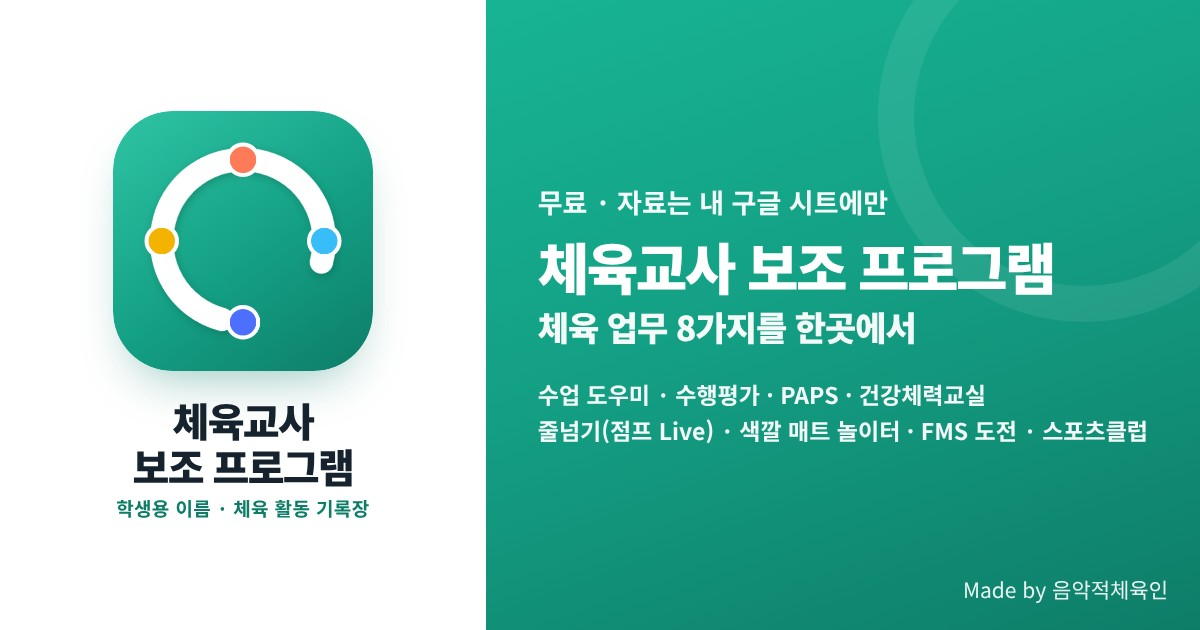
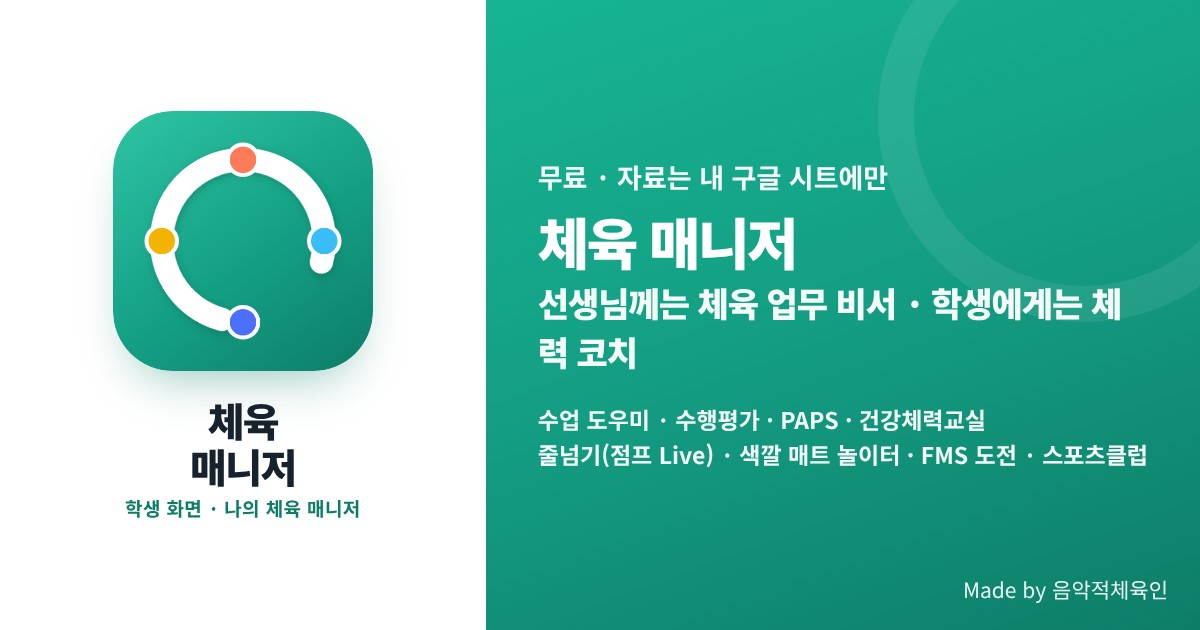
이름을 '체육 매니저'(학생 화면 '나의 체육 매니저')로 — 제목·manifest·공유 썸네일
Claude-Session: https://claude.ai/code/session_015cGnBZtKJMpHHGNaDpMrPQ

Changed region(s): [[0.4317, 0.2413, 0.9558, 0.754], [0.0925, 0.6333, 0.3083, 0.8444]]

diff --git a/app.html b/app.html
@@ -4,11 +4,11 @@
 <meta charset="utf-8">
 <meta name="description" content="체육 업무 8가지를 한곳에서 — 수업 도우미 · 수행평가 · PAPS · 건강체력교실 · 줄넘기(점프 Live) · 색깔 매트 놀이터 · FMS 도전 · 스포츠클럽. 무료, 자료는 내 구글 시트에만.">
 <meta property="og:type" content="website">
-<meta property="og:site_name" content="체육교사 보조 프로그램">
-<meta property="og:title" content="체육교사 보조 프로그램 · 체육 활동 기록장">
+<meta property="og:site_name" content="체육 매니저">
+<meta property="og:title" content="체육 매니저 — 선생님께는 체육 업무 비서, 학생에게는 체력 코치">
 <meta property="og:description" content="체육 업무 8가지를 한곳에서 — 수업 도우미 · 수행평가 · PAPS · 건강체력교실 · 줄넘기 · 색깔 매트 · FMS · 스포츠클럽. 무료, 자료는 내 구글 시트에만.">
 <meta property="og:url" content="https://musicalpe.github.io/pe-app/">
-<meta property="og:image" content="https://musicalpe.github.io/pe-app/img/og-app.jpg?v=1">
+<meta property="og:image" content="https://musicalpe.github.io/pe-app/img/og-app.jpg?v=2">
 <meta property="og:image:width" content="1200">
 <meta property="og:image:height" content="630">
 <meta name="twitter:card" content="summary_large_image">
@@ -20,7 +20,7 @@
 <meta name="mobile-web-app-capable" content="yes">
 <meta name="apple-mobile-web-app-title" content="체육 기록장">
 <script>(function(){try{if(/[?&]page=teacher/.test(location.search))document.getElementById("webManifest").href="manifest-teacher.webmanifest";}catch(e){}})();</script>
-<meta name="pe-web" content="3.4.0 · 2026-11-04 11:02 · server api 1">
+<meta name="pe-web" content="3.4.0 · 2026-11-04 11:09 · server api 1">
 <meta name="viewport" content="width=device-width, initial-scale=1">
 <link rel="stylesheet" href="https://cdn.jsdelivr.net/npm/@tabler/icons-webfont@3.19.0/dist/tabler-icons.min.css">
 <style>
@@ -415,7 +415,7 @@ button.say i{font-size:18px;}
 (function () {
   'use strict';
   var WEB = window.WEB = {
-    version: '3.4.0', build: '202611041102', needs: 1, built: '2026-11-04 11:02', history: [{"version":"3.4.0","date":"2026-11-03","notes":"줄넘기가 점퍼스(줄넘기 기록 관리) 2.8 과 같아졌어요 — 점프 Live (Lite) 선생님 화면(줄넘기 → 점프 Live), 학생 방 \"각자 기기로 대결\", \"한 대로 둘이\"(2인 판정기), 스마트 줄넘기로 뛰기(뛴 시간 함께), 하루 최고·연속 넘기 최고 갱신 축하, 상장 테두리 금박·은박·A4 세로. 방·연속·대결은 라이브러리 53 부터."},{"version":"3.3.7","date":"2026-10-11","notes":"줄넘기 기록 관리 2.4 와 같은 줄넘기 — 우리 반 줄넘기 여행이 국토 대장정(출발 도시 고르기·새 그림)으로, \"내 줄넘기로 뛰기\"(JUMPITNOW 블루투스), Jump Earth!·Jumpers! 이름. 출발 도시·스마트 줄넘기 설정은 라이브러리 53 부터. 구글 시트가 잠깐 오류로 답하면 1.5초 뒤 한 번 더 자동으로 요청해요."},{"version":"3.3.6","date":"2026-10-07","notes":"모아 부르기 — 같은 순간에 나가는 요청들(로그인 직후 모듈별 자료 등)을 한 요청으로 묶어 보내요. 라이브러리 52 부터 동작하고, 옛 라이브러리에서는 지금처럼 따로 보냅니다. 설정 → 최근 요청 속도에 \"묶음 N\" 으로 보여요."},{"version":"3.3.5","date":"2026-10-07","notes":"휴대폰 가로 화면에서 로그인 창이 위아래로 잘려 숫자판 끝까지 못 내리던 것을 고쳤어요(위·아래 모두 스크롤). 가로 화면에서는 숫자판도 조금 낮게. (화면만)"},{"version":"3.3.4","date":"2026-10-06","notes":"앱 아이콘을 민트 바탕 + 고리 모양으로(줄넘기 기록 관리와 같은 모양, 색만 다름). 이미 홈 화면에 추가한 기기는 지우고 다시 추가해야 새 아이콘이 보여요."},{"version":"3.3.3","date":"2026-10-06","notes":"줄넘기 \"학급 공동 목표\" 칸을 뺐어요(학급 현황·학생 화면·설정) — 우리 반 줄넘기 여행과 같은 숫자라 겹쳤어요. 설정값은 시트에 남아 있지만 쓰지 않아요. (화면만)"},{"version":"3.3.2","date":"2026-10-06","notes":"줄넘기 학급 현황: 여행·급수 패널 제목이 보는 범위를 따라가요 — 한 반이면 \"우리 반\", 한 학년 여러 반이면 \"우리 N학년\", 전체면 \"우리 학교\". (화면만)"},{"version":"3.3.1","date":"2026-10-05","notes":"급수 인증표: 학생 \"모두\" 체크를 이름 바로 옆으로 — 체크하면 그 줄 전부, 머리줄 \"모두\"는 반 전체. 항목을 하나씩 바꾸면 \"모두\" 칸이 따라와요. (화면만, 라이브러리 그대로)"},{"version":"3.3.0","date":"2026-10-05","notes":"3.3 — 학교 프로그램 v3.3.0(라이브러리 51)과 번호를 맞췄어요. 설정 → 모듈에 ▲▼(사이드바 모듈 순서, 저장하면 바로 반영 · 라이브러리 51 필요). 줄넘기: 급수 인증·인증서·상장·우리 반 여행 화면(라이브러리 50), 학급 현황 학생별 누적 표에 반 고르기와 오른쪽 열 높이에 맞춘 스크롤, 급수 인증표 머리줄 체크 정렬·\"모두\" 단추 토글, 기록 확인 \"모두 확인\", 줄넘기왕 공동 1위."},{"version":"3.2.14","date":"2026-10-04","notes":"전국 현황판 참여 중에는 \"학생 입력 자동 확인\"을 켤 수 없어요 — 선생님이 확인한 기록만 현황판에. (학교 프로그램 v3.1.8 · 라이브러리 49)"},{"version":"3.2.13","date":"2026-10-04","notes":"\"전국 현황판 참여\" 칸이 줄넘기 모든 화면에 보이던 것 — 줄넘기 설정 화면에만. 학교 프로그램이 아직 옛 판이면 칸을 숨겨요."},{"version":"3.2.12","date":"2026-10-04","notes":"줄넘기 설정에 \"전국 현황판 참여\" 칸, 참여 중이면 학생 줄넘기 화면에 \"전국 현황판 보기\" 링크. (학교 프로그램 v3.1.7 · 라이브러리 47)"},{"version":"3.2.11","date":"2026-10-04","notes":"색깔 매트 놀이터 리듬 스텝 새 모습 — 블록이 비트세이버처럼 앞으로 다가와요(매트 모양 그대로). \"위에서 떨어지기(네 줄)\"도 고를 수 있어요."},{"version":"3.2.10","date":"2026-10-04","notes":"학교가 \"새 배포\"로 주소가 바뀌면 이 기기도 새 주소로 저절로 옮겨 가요. 적용 순서 안내에 \"새 배포는 누르지 마세요\", 주소가 바뀌면 선생님 홈에 \"QR 다시 인쇄\" 알림. (학교 프로그램 v3.1.5 · 라이브러리 45)"},{"version":"3.2.9","date":"2026-10-04","notes":"(만든 선생님 학교 전용) 설정 왼쪽 AI 키 아래에 \"우리 프로그램을 쓰는 학교\" 칸 — 사용 학교 현황을 프로그램 안에서 바로 봐요. (학교 프로그램 v3.1.4 · 라이브러리 44)"},{"version":"3.2.7","date":"2026-10-03","notes":"설정 → 업데이트 아래 \"사용 학교 알림\" — 익명(기본) · 학교 이름도 · 알리지 않기 중에서 고를 수 있어요. 학생 정보는 보내지 않아요. (학교 프로그램 v3.1.3 · 라이브러리 43)"},{"version":"3.2.6","date":"2026-10-03","notes":"AI 키를 설정 한 곳에서(설정 왼쪽 아래 · 시험해 보기) — 줄넘기 응원 문구·매트 퀴즈·세특 AI가 모두 이 키를 쓰고, 앞으로 생길 AI 기능도 여기 키를 써요. (학교 프로그램 v3.1.1 · 라이브러리 41 필요)"},{"version":"3.2.4","date":"2026-10-03","notes":"세특 초안에 \"AI로 다듬기\"(Gemini 키) — 학생마다 기록 사실로 서로 다른 문장, 한 명씩 또는 고른 학생·반 전체를 차례로. 학생을 골라 글 지우기. (학교 프로그램 v3.1.1 · 라이브러리 41 필요)"},{"version":"3.2.3","date":"2026-10-03","notes":"선생님이 로그인하면 새 소식 창 — 새 화면이 바뀌면 \"이번에 바뀐 것\"을 한 번 보여 주고, 학교 프로그램(라이브러리) 새 버전이 나와 있으면 적용 방법도 함께 알려 줘요."},{"version":"3.2.2","date":"2026-10-01","notes":"홈 화면에 앱으로 추가 — 태블릿·휴대폰에서 아이콘 하나로 주소창 없이 앱처럼 열려요(로그인 화면 아래 \"홈 화면에 앱으로 추가\", 아이폰은 공유 → 홈 화면에 추가). 앱 파일을 기기에 기억해 두어 여는 것도 빨라져요.\n세특 초안(홈)과 새 학년도 시작(설정) 메뉴 — 학교 프로그램을 v3.1.0(라이브러리 40)으로 올리면 써요."},{"version":"3.2.1","date":"2026-10-01","notes":"색깔 매트 놀이터 화면을 밝은 카드 톤으로(판정기와 같은 톤) — 게임 설정·끝 화면이 밝아지고 시작 버튼은 코랄색. 게임 중 화면은 매트 색이 잘 보이도록 검은 바탕 그대로."},{"version":"3.2.0","date":"2026-10-01","notes":"휴대폰·태블릿 위 메뉴를 누르면 아래 하위 메뉴만 바뀌던 것 — 그 메뉴의 첫 화면도 바로 열려요."},{"version":"3.1.9","date":"2026-10-01","notes":"카메라 판정기 새 디자인(v0.7.3) — 밝은 카드 화면, 10회마다 축하, 전체 화면 버튼. 앱으로 돌아가기 줄도 밝게."},{"version":"3.1.8","date":"2026-10-01","notes":"초기화 화면에 한꺼번에 고르기 — \"모든 기록 선택(명단은 남김)\" · \"명단까지 전부 선택\" · \"선택 해제\", 모듈마다 \"이 모듈 모두\", 고른 개수 표시."},{"version":"3.1.7","date":"2026-10-01","notes":"로그인 직후 모듈 여러 개가 한꺼번에 자료를 부르며 모두 느려지던 것 — 3개씩 차례로 보내고, 선생님·학생이 누른 화면의 자료는 줄 맨 앞으로 먼저 불러와요."},{"version":"3.1.5","date":"2026-09-30","notes":"새 판이 나온 뒤 처음 열 때 화면을 두 번 불러오던 것을 한 번으로 — 새 판 확인을 먼저 하고 바로 새 판을 받아요.\n설정 → 업데이트 칸 아래에 \"최근 요청 속도\" (느릴 때 어디가 느린지 볼 수 있어요)."},{"version":"3.1.4","date":"2026-09-30","notes":"색깔 매트 놀이터: 게임 중에 휴대폰·태블릿 \"뒤로\"를 누르면 게임이 닫히고 음악도 멈춰요(예전엔 유튜브 음악이 계속 나오던 것 수정).\n핸드폰(세로)에서 카메라 판정기 글자가 겹치고 시작 버튼이 가려지던 것 수정 — 판정기 v0.7.2."},{"version":"3.1.2","date":"2026-09-30","notes":"줄넘기·건강체력교실 \"카메라로 뛰기\"가 새 탭 대신 앱 안 전체 화면으로 열려요. 위쪽 \"앱으로 돌아가기\"(또는 뒤로가기)로 닫으면 방금 기록이 바로 보여요.\n학생이 로그인하자마자 모듈을 누르면 빈 화면이 남던 것 수정.\n색깔 매트 놀이터 게임 화면에 Made by 도장.\n학생용 QR 이 화면 방식을 따라가요(\"새 화면\"이면 찍자마자 새 화면). QR 인쇄가 빈 종이로 나오던 것 수정.\n버전 번호를 하나로 — 설정·업데이트 칸의 번호가 곧 지금 쓰는 판이에요. 새 판이 나오면 앱을 열 때 저절로 새 판을 받아요(새로고침 요령이 필요 없음)."},{"version":"3.0.1","date":"2026-09-30","notes":"설정 → 접속 주소에 학생용 주소 QR(인쇄 가능).\n학교 프로그램(Shell.gs)에 doPost 가 없어도 사진·큰 저장이 조각으로 올라감."},{"version":"3.0.0","date":"2026-09-30","notes":"새 화면 첫 판 — 화면은 GitHub 한 곳에서, 저장은 지금처럼 학교 시트에.\n학교 주소를 기기에 기억 · 로그인 화면 아래 \"다른 학교로 바꾸기\".\n구글 웹앱 위쪽 안내 띠 없음."}],
+    version: '3.4.0', build: '202611041109', needs: 1, built: '2026-11-04 11:09', history: [{"version":"3.4.0","date":"2026-11-03","notes":"이름이 '체육 매니저'(학생 화면은 '나의 체육 매니저')로 바뀌었어요 — 설정에서 이름을 따로 정해 둔 학교는 그대로예요. 줄넘기가 점퍼스(줄넘기 기록 관리) 2.8 과 같아졌어요 — 점프 Live (Lite) 선생님 화면(줄넘기 → 점프 Live), 학생 방 \"각자 기기로 대결\", \"한 대로 둘이\"(2인 판정기), 스마트 줄넘기로 뛰기(뛴 시간 함께), 하루 최고·연속 넘기 최고 갱신 축하, 상장 테두리 금박·은박·A4 세로. 방·연속·대결은 라이브러리 53 부터."},{"version":"3.3.7","date":"2026-10-11","notes":"줄넘기 기록 관리 2.4 와 같은 줄넘기 — 우리 반 줄넘기 여행이 국토 대장정(출발 도시 고르기·새 그림)으로, \"내 줄넘기로 뛰기\"(JUMPITNOW 블루투스), Jump Earth!·Jumpers! 이름. 출발 도시·스마트 줄넘기 설정은 라이브러리 53 부터. 구글 시트가 잠깐 오류로 답하면 1.5초 뒤 한 번 더 자동으로 요청해요."},{"version":"3.3.6","date":"2026-10-07","notes":"모아 부르기 — 같은 순간에 나가는 요청들(로그인 직후 모듈별 자료 등)을 한 요청으로 묶어 보내요. 라이브러리 52 부터 동작하고, 옛 라이브러리에서는 지금처럼 따로 보냅니다. 설정 → 최근 요청 속도에 \"묶음 N\" 으로 보여요."},{"version":"3.3.5","date":"2026-10-07","notes":"휴대폰 가로 화면에서 로그인 창이 위아래로 잘려 숫자판 끝까지 못 내리던 것을 고쳤어요(위·아래 모두 스크롤). 가로 화면에서는 숫자판도 조금 낮게. (화면만)"},{"version":"3.3.4","date":"2026-10-06","notes":"앱 아이콘을 민트 바탕 + 고리 모양으로(줄넘기 기록 관리와 같은 모양, 색만 다름). 이미 홈 화면에 추가한 기기는 지우고 다시 추가해야 새 아이콘이 보여요."},{"version":"3.3.3","date":"2026-10-06","notes":"줄넘기 \"학급 공동 목표\" 칸을 뺐어요(학급 현황·학생 화면·설정) — 우리 반 줄넘기 여행과 같은 숫자라 겹쳤어요. 설정값은 시트에 남아 있지만 쓰지 않아요. (화면만)"},{"version":"3.3.2","date":"2026-10-06","notes":"줄넘기 학급 현황: 여행·급수 패널 제목이 보는 범위를 따라가요 — 한 반이면 \"우리 반\", 한 학년 여러 반이면 \"우리 N학년\", 전체면 \"우리 학교\". (화면만)"},{"version":"3.3.1","date":"2026-10-05","notes":"급수 인증표: 학생 \"모두\" 체크를 이름 바로 옆으로 — 체크하면 그 줄 전부, 머리줄 \"모두\"는 반 전체. 항목을 하나씩 바꾸면 \"모두\" 칸이 따라와요. (화면만, 라이브러리 그대로)"},{"version":"3.3.0","date":"2026-10-05","notes":"3.3 — 학교 프로그램 v3.3.0(라이브러리 51)과 번호를 맞췄어요. 설정 → 모듈에 ▲▼(사이드바 모듈 순서, 저장하면 바로 반영 · 라이브러리 51 필요). 줄넘기: 급수 인증·인증서·상장·우리 반 여행 화면(라이브러리 50), 학급 현황 학생별 누적 표에 반 고르기와 오른쪽 열 높이에 맞춘 스크롤, 급수 인증표 머리줄 체크 정렬·\"모두\" 단추 토글, 기록 확인 \"모두 확인\", 줄넘기왕 공동 1위."},{"version":"3.2.14","date":"2026-10-04","notes":"전국 현황판 참여 중에는 \"학생 입력 자동 확인\"을 켤 수 없어요 — 선생님이 확인한 기록만 현황판에. (학교 프로그램 v3.1.8 · 라이브러리 49)"},{"version":"3.2.13","date":"2026-10-04","notes":"\"전국 현황판 참여\" 칸이 줄넘기 모든 화면에 보이던 것 — 줄넘기 설정 화면에만. 학교 프로그램이 아직 옛 판이면 칸을 숨겨요."},{"version":"3.2.12","date":"2026-10-04","notes":"줄넘기 설정에 \"전국 현황판 참여\" 칸, 참여 중이면 학생 줄넘기 화면에 \"전국 현황판 보기\" 링크. (학교 프로그램 v3.1.7 · 라이브러리 47)"},{"version":"3.2.11","date":"2026-10-04","notes":"색깔 매트 놀이터 리듬 스텝 새 모습 — 블록이 비트세이버처럼 앞으로 다가와요(매트 모양 그대로). \"위에서 떨어지기(네 줄)\"도 고를 수 있어요."},{"version":"3.2.10","date":"2026-10-04","notes":"학교가 \"새 배포\"로 주소가 바뀌면 이 기기도 새 주소로 저절로 옮겨 가요. 적용 순서 안내에 \"새 배포는 누르지 마세요\", 주소가 바뀌면 선생님 홈에 \"QR 다시 인쇄\" 알림. (학교 프로그램 v3.1.5 · 라이브러리 45)"},{"version":"3.2.9","date":"2026-10-04","notes":"(만든 선생님 학교 전용) 설정 왼쪽 AI 키 아래에 \"우리 프로그램을 쓰는 학교\" 칸 — 사용 학교 현황을 프로그램 안에서 바로 봐요. (학교 프로그램 v3.1.4 · 라이브러리 44)"},{"version":"3.2.7","date":"2026-10-03","notes":"설정 → 업데이트 아래 \"사용 학교 알림\" — 익명(기본) · 학교 이름도 · 알리지 않기 중에서 고를 수 있어요. 학생 정보는 보내지 않아요. (학교 프로그램 v3.1.3 · 라이브러리 43)"},{"version":"3.2.6","date":"2026-10-03","notes":"AI 키를 설정 한 곳에서(설정 왼쪽 아래 · 시험해 보기) — 줄넘기 응원 문구·매트 퀴즈·세특 AI가 모두 이 키를 쓰고, 앞으로 생길 AI 기능도 여기 키를 써요. (학교 프로그램 v3.1.1 · 라이브러리 41 필요)"},{"version":"3.2.4","date":"2026-10-03","notes":"세특 초안에 \"AI로 다듬기\"(Gemini 키) — 학생마다 기록 사실로 서로 다른 문장, 한 명씩 또는 고른 학생·반 전체를 차례로. 학생을 골라 글 지우기. (학교 프로그램 v3.1.1 · 라이브러리 41 필요)"},{"version":"3.2.3","date":"2026-10-03","notes":"선생님이 로그인하면 새 소식 창 — 새 화면이 바뀌면 \"이번에 바뀐 것\"을 한 번 보여 주고, 학교 프로그램(라이브러리) 새 버전이 나와 있으면 적용 방법도 함께 알려 줘요."},{"version":"3.2.2","date":"2026-10-01","notes":"홈 화면에 앱으로 추가 — 태블릿·휴대폰에서 아이콘 하나로 주소창 없이 앱처럼 열려요(로그인 화면 아래 \"홈 화면에 앱으로 추가\", 아이폰은 공유 → 홈 화면에 추가). 앱 파일을 기기에 기억해 두어 여는 것도 빨라져요.\n세특 초안(홈)과 새 학년도 시작(설정) 메뉴 — 학교 프로그램을 v3.1.0(라이브러리 40)으로 올리면 써요."},{"version":"3.2.1","date":"2026-10-01","notes":"색깔 매트 놀이터 화면을 밝은 카드 톤으로(판정기와 같은 톤) — 게임 설정·끝 화면이 밝아지고 시작 버튼은 코랄색. 게임 중 화면은 매트 색이 잘 보이도록 검은 바탕 그대로."},{"version":"3.2.0","date":"2026-10-01","notes":"휴대폰·태블릿 위 메뉴를 누르면 아래 하위 메뉴만 바뀌던 것 — 그 메뉴의 첫 화면도 바로 열려요."},{"version":"3.1.9","date":"2026-10-01","notes":"카메라 판정기 새 디자인(v0.7.3) — 밝은 카드 화면, 10회마다 축하, 전체 화면 버튼. 앱으로 돌아가기 줄도 밝게."},{"version":"3.1.8","date":"2026-10-01","notes":"초기화 화면에 한꺼번에 고르기 — \"모든 기록 선택(명단은 남김)\" · \"명단까지 전부 선택\" · \"선택 해제\", 모듈마다 \"이 모듈 모두\", 고른 개수 표시."},{"version":"3.1.7","date":"2026-10-01","notes":"로그인 직후 모듈 여러 개가 한꺼번에 자료를 부르며 모두 느려지던 것 — 3개씩 차례로 보내고, 선생님·학생이 누른 화면의 자료는 줄 맨 앞으로 먼저 불러와요."},{"version":"3.1.5","date":"2026-09-30","notes":"새 판이 나온 뒤 처음 열 때 화면을 두 번 불러오던 것을 한 번으로 — 새 판 확인을 먼저 하고 바로 새 판을 받아요.\n설정 → 업데이트 칸 아래에 \"최근 요청 속도\" (느릴 때 어디가 느린지 볼 수 있어요)."},{"version":"3.1.4","date":"2026-09-30","notes":"색깔 매트 놀이터: 게임 중에 휴대폰·태블릿 \"뒤로\"를 누르면 게임이 닫히고 음악도 멈춰요(예전엔 유튜브 음악이 계속 나오던 것 수정).\n핸드폰(세로)에서 카메라 판정기 글자가 겹치고 시작 버튼이 가려지던 것 수정 — 판정기 v0.7.2."},{"version":"3.1.2","date":"2026-09-30","notes":"줄넘기·건강체력교실 \"카메라로 뛰기\"가 새 탭 대신 앱 안 전체 화면으로 열려요. 위쪽 \"앱으로 돌아가기\"(또는 뒤로가기)로 닫으면 방금 기록이 바로 보여요.\n학생이 로그인하자마자 모듈을 누르면 빈 화면이 남던 것 수정.\n색깔 매트 놀이터 게임 화면에 Made by 도장.\n학생용 QR 이 화면 방식을 따라가요(\"새 화면\"이면 찍자마자 새 화면). QR 인쇄가 빈 종이로 나오던 것 수정.\n버전 번호를 하나로 — 설정·업데이트 칸의 번호가 곧 지금 쓰는 판이에요. 새 판이 나오면 앱을 열 때 저절로 새 판을 받아요(새로고침 요령이 필요 없음)."},{"version":"3.0.1","date":"2026-09-30","notes":"설정 → 접속 주소에 학생용 주소 QR(인쇄 가능).\n학교 프로그램(Shell.gs)에 doPost 가 없어도 사진·큰 저장이 조각으로 올라감."},{"version":"3.0.0","date":"2026-09-30","notes":"새 화면 첫 판 — 화면은 GitHub 한 곳에서, 저장은 지금처럼 학교 시트에.\n학교 주소를 기기에 기억 · 로그인 화면 아래 \"다른 학교로 바꾸기\".\n구글 웹앱 위쪽 안내 띠 없음."}],
     app: '', info: null, post: null, page: '', ready: null
   };
   var KEY = 'peapp.school', LIST = 'peapp.schools', THEME = 'peapp.theme.';
@@ -1286,7 +1286,7 @@ function 학생짧게(s) { return s.학년 + '-' + s.반 + ' ' + s.번호 + '번
   <div class="login">
     <div class="login-head">
       <div class="school hide" id="lgSchool"><i class="ti ti-school"></i><span></span></div>
-      <h1 id="lgTitle">체육 활동 기록장</h1>
+      <h1 id="lgTitle">나의 체육 매니저</h1>
       <p id="lgSub">내가 한 체육 활동을 기록하고 차곡차곡 모아요</p>
       <div class="login-mods" id="lgMods"></div>
     </div>
@@ -1324,7 +1324,7 @@ function 학생짧게(s) { return s.학년 + '-' + s.반 + ' ' + s.번호 + '번
 <div id="viewApp" class="hide">
   <div class="topbar">
     <div class="title" id="appHome" role="button" tabindex="0" title="첫 화면으로">
-      <span class="logo"><i class="ti ti-ball-basketball"></i></span><span id="appTitle">체육 활동 기록장</span>
+      <span class="logo"><i class="ti ti-ball-basketball"></i></span><span id="appTitle">나의 체육 매니저</span>
     </div>
     <span class="app-date" id="appDate"></span>
     <div class="spacer"></div>
@@ -1547,7 +1547,7 @@ function 학생짧게(s) { return s.학년 + '-' + s.반 + ' ' + s.번호 + '번
             <button class="ghost" id="btnPwChange"><i class="ti ti-lock"></i>변경</button>
             <span class="status" id="pwStatus"></span>
           </div>
-          <div class="panel-body unit" style="padding-top:0">잊어버리면 스프레드시트 메뉴 <code>체육교사 보조 → 교사 비밀번호 초기화</code>로 1234로 되돌립니다.</div>
+          <div class="panel-body unit" style="padding-top:0">잊어버리면 스프레드시트 메뉴 <code>체육 매니저 → 교사 비밀번호 초기화</code>로 1234로 되돌립니다.</div>
         </div>
         <div class="panel" id="setAiPanel">
           <div class="panel-head"><h3><i class="ti ti-sparkles"></i>AI 키 (Gemini)</h3><div class="spacer"></div><span class="unit" id="aiBadge"></span></div>
@@ -2141,7 +2141,7 @@ MODS.core.teacher = (function () {
       '<div class="note sun"><i class="ti ti-list-numbers"></i><div><b>적용 순서 (2분)</b><br>1. 스프레드시트 → 확장 프로그램 → <b>Apps Script</b><br>2. 왼쪽 "라이브러리" 아래 <b>PE</b> 를 눌러 버전을 <b>' + (u.라이브러리버전 ? esc(u.라이브러리버전) : '가장 큰 숫자') + '</b> 로 바꾸고 저장<br>3. 오른쪽 위 <b>배포 → 배포 관리</b> → 연필 → 버전 "새 버전" → 배포<br><b style="color:var(--coral,#E5484D)">⚠ "새 배포"는 누르지 마세요</b> — 학생용 주소가 새로 생겨 교실 QR·즐겨찾기를 다시 만들어야 해요. 꼭 <b>배포 관리</b> → 연필로.<br><span class="unit">자료도 주소도 그대로입니다. 끝나면 이 화면을 새로 고치세요.</span></div></div>';
     else h += '<div class="note ok"><i class="ti ti-circle-check"></i><div>최신 버전입니다.</div></div>';
     h += '<div class="chks" style="margin-top:8px"><button class="ghost mini" id="btnUpdCheck"><i class="ti ti-refresh"></i>새 버전 확인</button><span class="status" id="updStatus"></span></div>' +
-      '<div class="unit" style="margin-top:8px">스프레드시트 메뉴 <b>체육교사 보조 → 업데이트 확인</b>에서도 같은 안내를 볼 수 있습니다.</div>';
+      '<div class="unit" style="margin-top:8px">스프레드시트 메뉴 <b>체육 매니저 → 업데이트 확인</b>에서도 같은 안내를 볼 수 있습니다.</div>';
     h += speedHtml();
     box.innerHTML = h;
     $('btnUpdCheck').onclick = function () {
@@ -15377,7 +15377,7 @@ function applyTheme(t) {
 }
 
 /* ================= 로그인 화면 ================= */
-var LOGIN = { 학급: [], 제목: '체육교사 보조 프로그램', 학생용이름: '체육 활동 기록장', 자동나가기분: 3, 학생로그인: '숫자판', 모듈: [] };
+var LOGIN = { 학급: [], 제목: '체육 매니저', 학생용이름: '나의 체육 매니저', 자동나가기분: 3, 학생로그인: '숫자판', 모듈: [] };
 /* 로그인 화면 머리: 학생 탭이면 학생용 이름, 선생님 탭이면 프로그램 이름 */
 function paintLoginHead(teacher) {
   $('lgTitle').textContent = teacher ? LOGIN.제목 : LOGIN.학생용이름;

diff --git a/index.html b/index.html
@@ -1,12 +1,12 @@
 <!DOCTYPE html>
-<html lang="ko"><head><meta charset="utf-8"><meta name="viewport" content="width=device-width, initial-scale=1"><title>체육교사 보조 프로그램</title>
+<html lang="ko"><head><meta charset="utf-8"><meta name="viewport" content="width=device-width, initial-scale=1"><title>체육 매니저</title>
 <meta name="description" content="체육 업무 8가지를 한곳에서 — 수업 도우미 · 수행평가 · PAPS · 건강체력교실 · 줄넘기(점프 Live) · 색깔 매트 놀이터 · FMS 도전 · 스포츠클럽. 무료, 자료는 내 구글 시트에만.">
 <meta property="og:type" content="website">
-<meta property="og:site_name" content="체육교사 보조 프로그램">
-<meta property="og:title" content="체육교사 보조 프로그램 · 체육 활동 기록장">
+<meta property="og:site_name" content="체육 매니저">
+<meta property="og:title" content="체육 매니저 — 선생님께는 체육 업무 비서, 학생에게는 체력 코치">
 <meta property="og:description" content="체육 업무 8가지를 한곳에서 — 수업 도우미 · 수행평가 · PAPS · 건강체력교실 · 줄넘기 · 색깔 매트 · FMS · 스포츠클럽. 무료, 자료는 내 구글 시트에만.">
 <meta property="og:url" content="https://musicalpe.github.io/pe-app/">
-<meta property="og:image" content="https://musicalpe.github.io/pe-app/img/og-app.jpg?v=1">
+<meta property="og:image" content="https://musicalpe.github.io/pe-app/img/og-app.jpg?v=2">
 <meta property="og:image:width" content="1200">
 <meta property="og:image:height" content="630">
 <meta name="twitter:card" content="summary_large_image">
@@ -23,7 +23,7 @@
 <script>
 (function () {
   var q = location.search.replace(/^\?/, ''), done = false;
-  function go(v, b) { if (done) return; done = true; location.replace('app.html?v=' + encodeURIComponent(v || '3.4.0') + '&b=' + encodeURIComponent(b || '202611041102') + (q ? '&' + q : '')); }
+  function go(v, b) { if (done) return; done = true; location.replace('app.html?v=' + encodeURIComponent(v || '3.4.0') + '&b=' + encodeURIComponent(b || '202611041109') + (q ? '&' + q : '')); }
   setTimeout(function () { go(''); }, 4000);   // 판 확인이 늦으면 그냥 열기
   fetch('ready.json?t=' + Date.now(), { cache: 'no-store' }).then(function (r) { return r.json(); }).then(function (j) { go(j.version, j.build); }, function () { go(''); });
 })();
